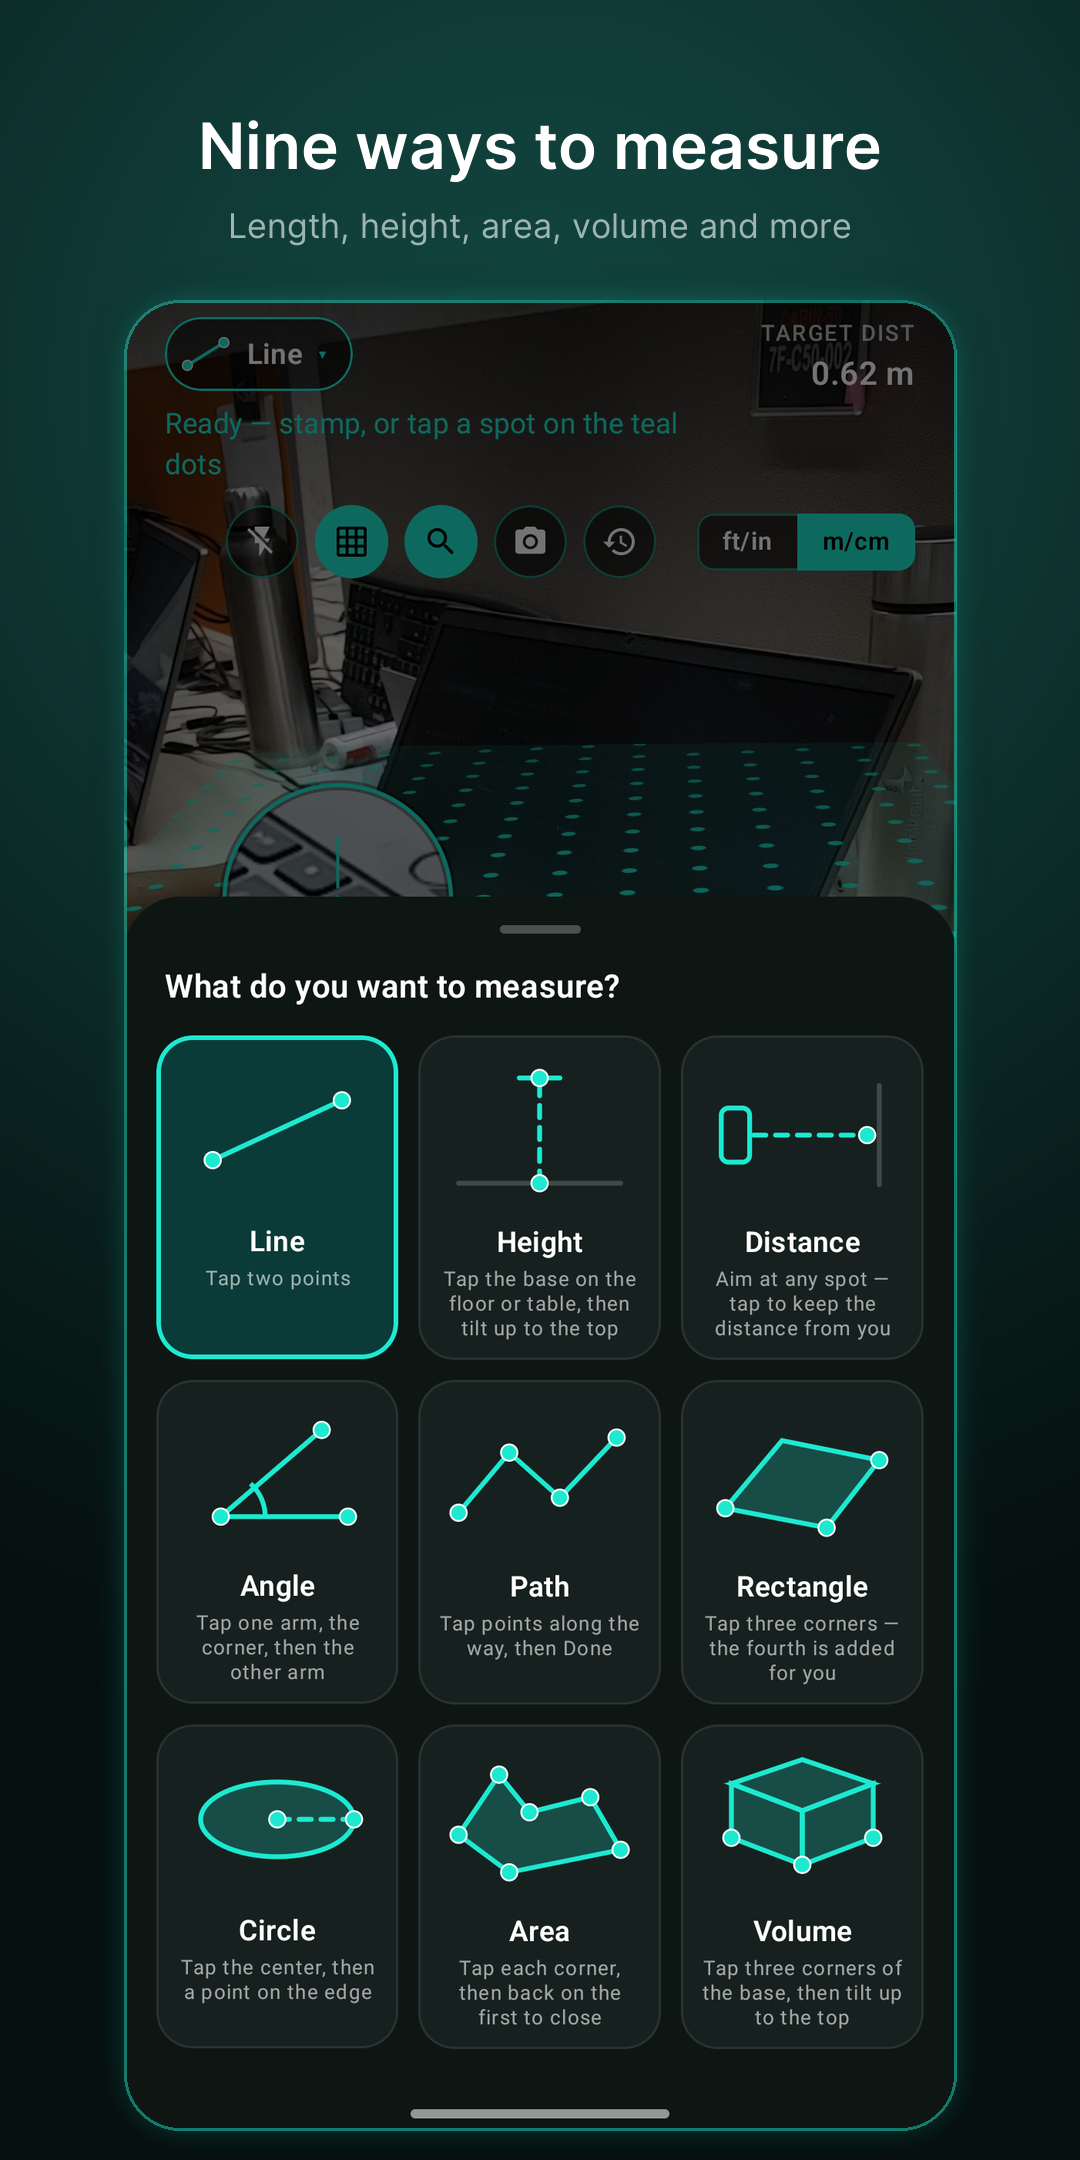
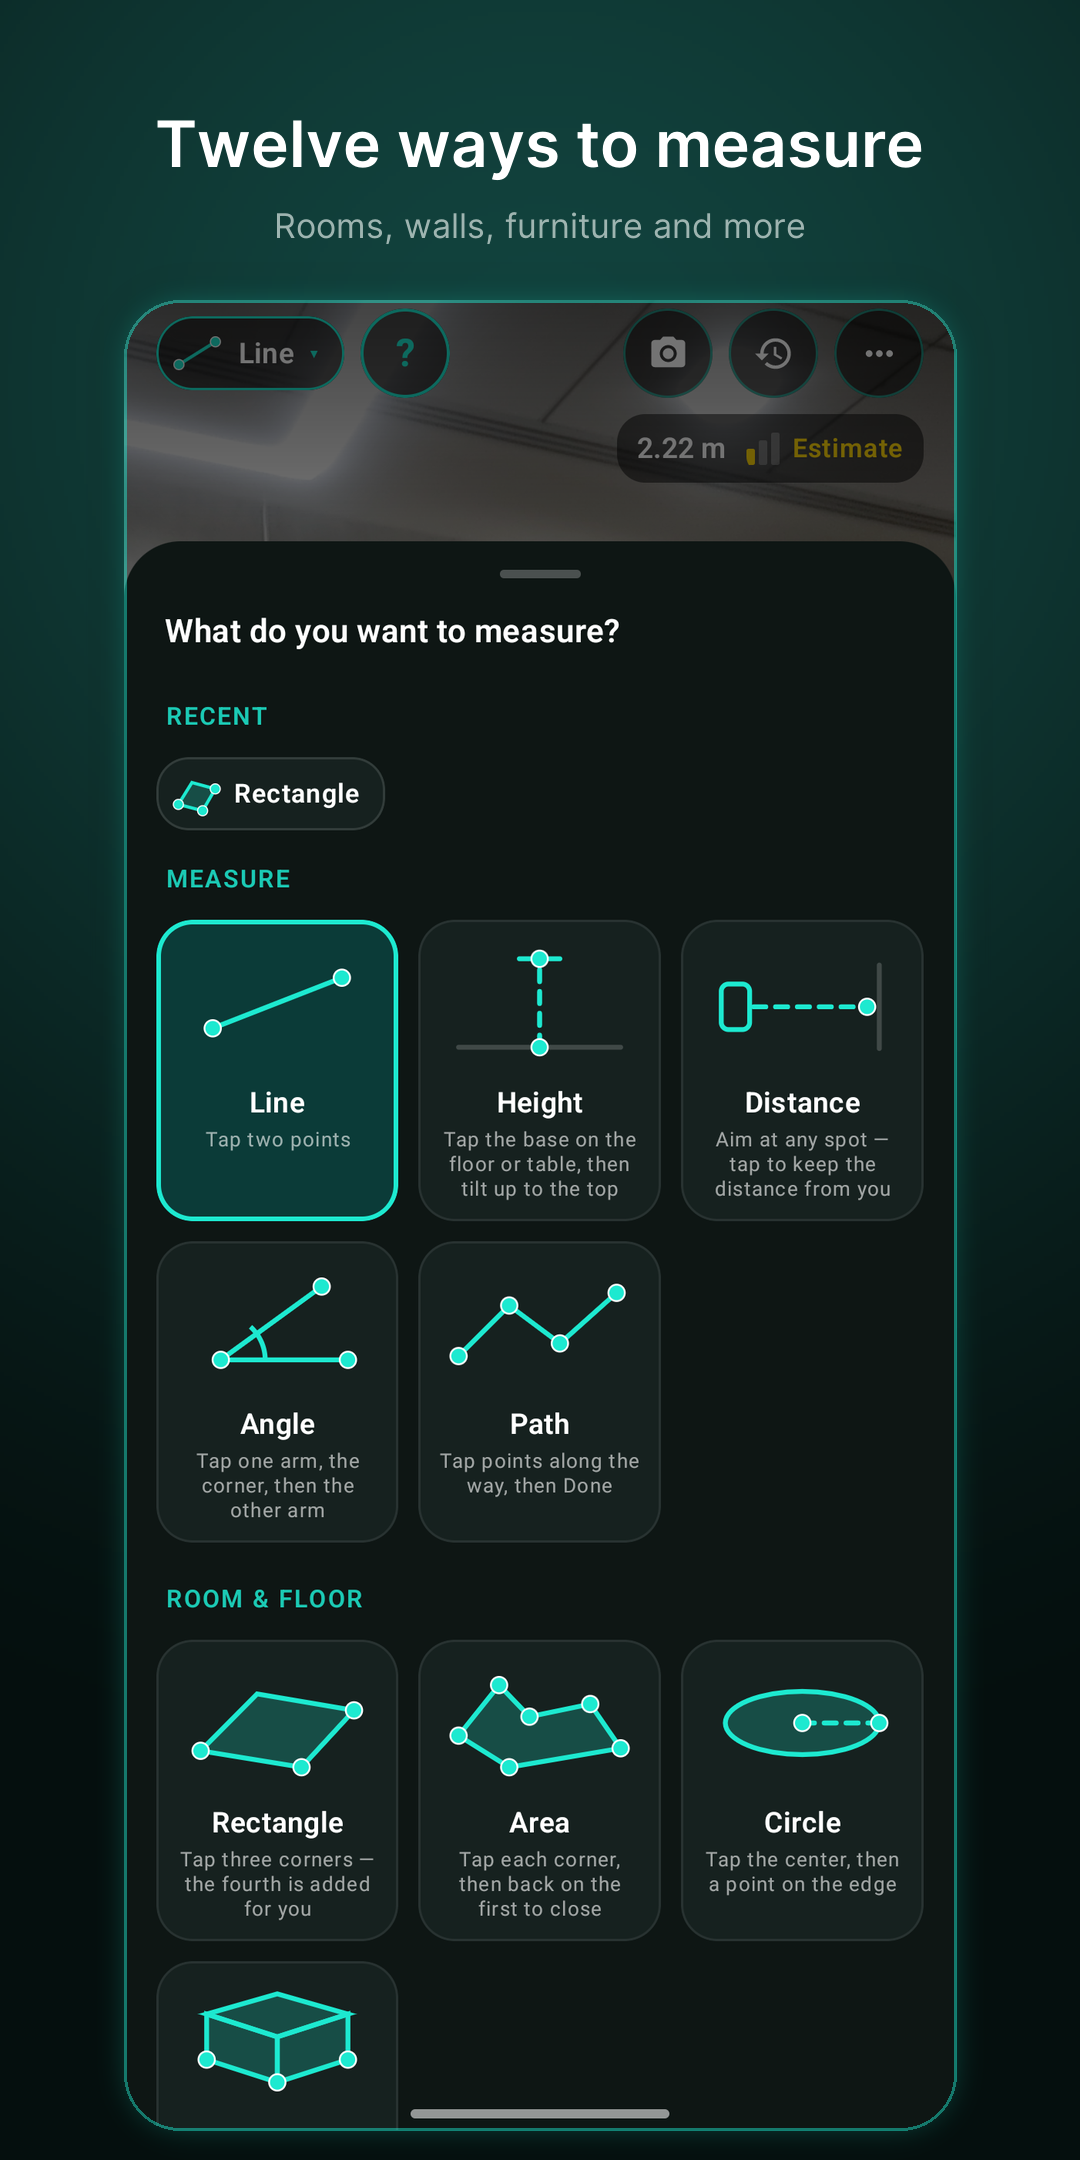
Website: new screenshots of the 1.2 screens
Replaces the old 1.0 shots (one showed a wrong reading).

diff --git a/docs/index.html b/docs/index.html
@@ -85,8 +85,10 @@
 
   <h2>Screenshots</h2>
   <div class="shots">
-    <img src="shot-modes.png" alt="Mode picker with nine measuring modes">
-    <img src="shot-rectangle.png" alt="Measuring a cube with the Rectangle mode">
+    <img src="shot-welcome.png" alt="Welcome screen: measure with your camera">
+    <img src="shot-modes.png" alt="Mode picker with twelve measuring modes in groups">
+    <img src="shot-help.png" alt="Illustrated step-by-step help guide">
+    <img src="shot-level.png" alt="Bubble level reading 0 degrees">
   </div>
 
   <h2>How to install</h2>
